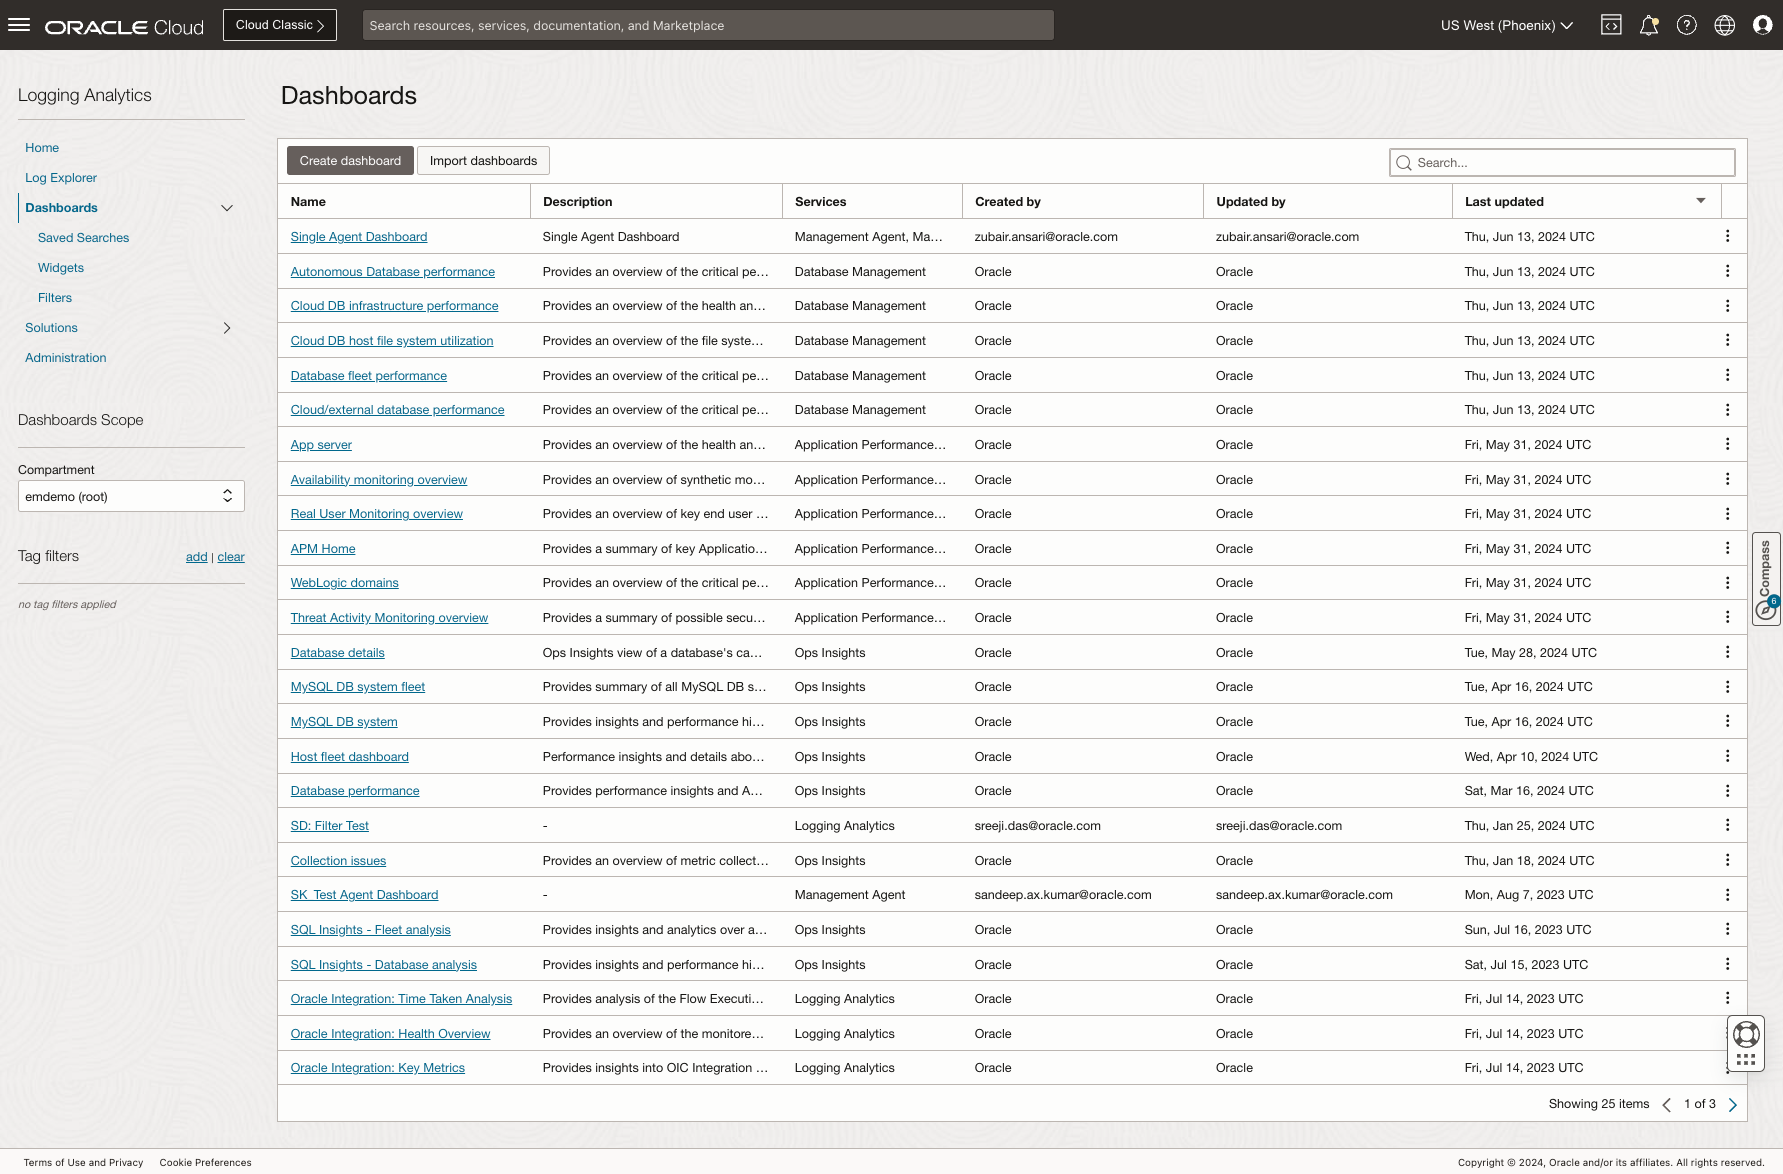
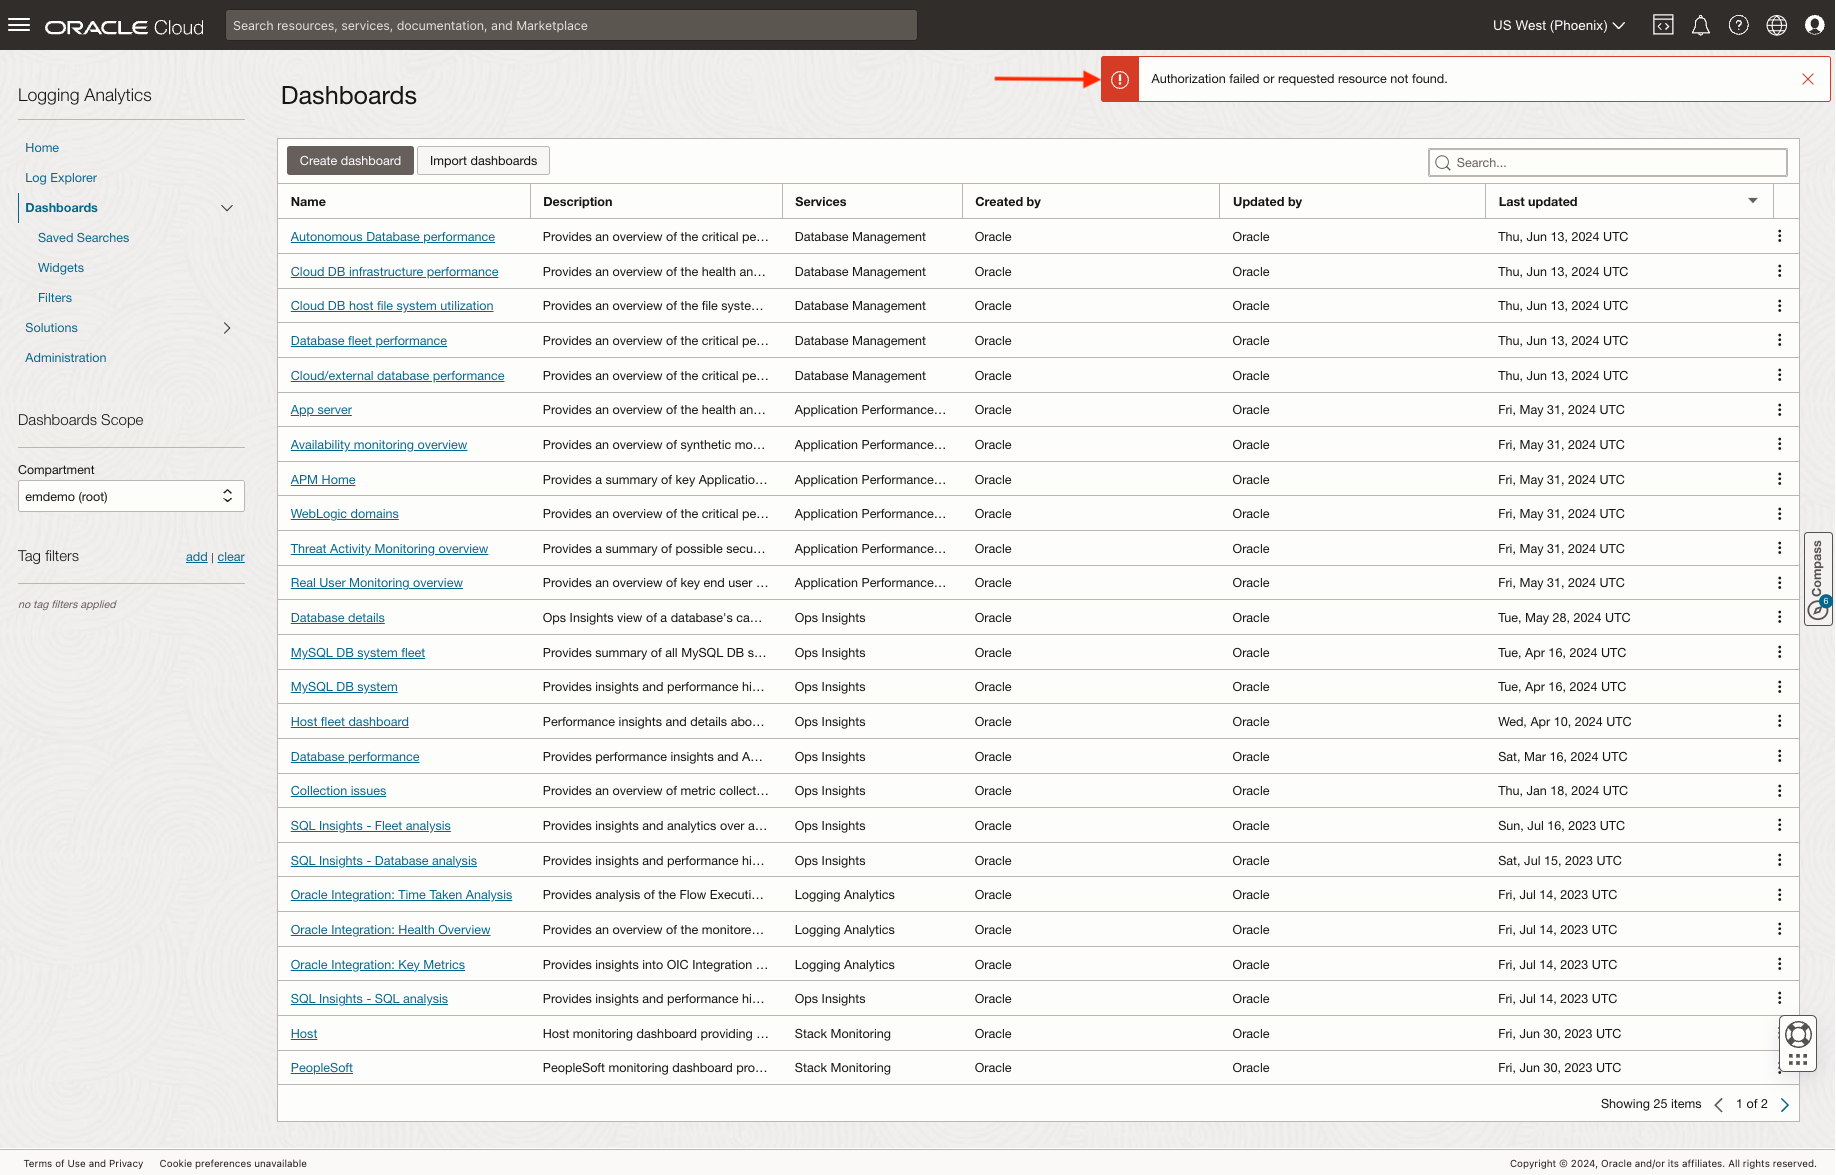
9501 Kubernetes Monitoring and Troubleshooting (#308)
* Dry run feedback addressed

* address lab2 review comments

* feedback from live lab group run

* learn more about log ex link added

* video to be updated- removed

* video viewing statement removed.

* replaced outdated Logex workshop link

diff --git a/logging-analytics/oke-monitoring-la/monitor-kubernetes-cluster/monitor-kubernetes-cluster.md b/logging-analytics/oke-monitoring-la/monitor-kubernetes-cluster/monitor-kubernetes-cluster.md
@@ -1,4 +1,4 @@
-# Monitor the existing Kubernetes Cluster Solution
+# Lab 2 - Monitor the existing Kubernetes Cluster solution
 
 ## Introduction
 
@@ -21,9 +21,9 @@ In this lab, you will see step-by-step instructions to:
 
 1. To navigate to Solutions page, follow one of the below two methods.
 
-    - Open url : https://cloud.oracle.com/loganalytics/solutions?region=us-phoenix-1&tenant=emdemo
+    - **Method 1** - Direct url : https://cloud.oracle.com/loganalytics/solutions?region=us-phoenix-1&tenant=emdemo
 
-    - From Navigation Menu > **Observability & Management** > **Logging Analytics** > **Solutions**.
+    - **Method 2** - From Navigation Menu > **Observability & Management** > **Logging Analytics** > **Solutions**.
     ![final-navigation-solution](images/final-navigation-solution.gif)
 
 2. Click on the Kubernetes tile.
@@ -97,7 +97,7 @@ In this lab, you will see step-by-step instructions to:
     ![cpucore-metrics](images/cpucore-metrics.png)
     - There are total 17 metrics widgets available in cluster view. For details of metrics widgets refer [here](https://docs.oracle.com/en-us/iaas/logging-analytics/doc/kubernetes-solution.html).
 
-2.  Use scroll up and down to see different telemetry widgets.
+2.  Scroll Metrics widgets in Telemetry panel using arrow buttons.
 
     - To view all metrics widgets available in cluster, use arrow above first widget to move up and arrow below fourth widget to move down.
     ![metrics-scrolling](images/latest-metrics-scrolling.gif)
@@ -137,9 +137,9 @@ This widget helps you to monitor the trend and distribution of potential issues 
 
 3. Review Issue trend and potential issues charts.
 
-    - Observe All Issues section showing Issue trend chart. This time series chart gives count of Issues detected over given time interval. Hover over data points for details.
+    - Observe *All Issues* chart, this time series chart gives count of Issues detected over given time interval. Hover over data points for details.
     ![kubesys-all-issues](images/kubesys-all-issues.png)
-    - Check Potential Issues chart to view Issues count grouped by kubernetes components & error. Hover over different colored data points to view details of components with corresponding error.
+    - Check *Potential Issues* chart to view Issues count grouped by kubernetes components & error. Hover over different colored data points to view details of components with corresponding error.
     ![kubesys-potential-issues](images/kubesys-potential-issues.png)
 
 4. Review issues table to see kubernetes component logs. 
@@ -160,9 +160,9 @@ This widget helps you to monitor the trend and distribution of potential issues 
 
 2. Review trend of issues and specific issues.
 
-    - Observe All Issues section showing Issue trend chart. This time series chart gives count of Issues detected over given time interval. Hover over data points for details.
+    - Observe *All Issues* chart, this time series chart gives count of Issues detected over given time interval. Hover over data points for details.
     ![oshealth-all-issues](images/oshealth-all-issues.png)
-    - Check Issues chart to view Issues count grouped by kubernetes component, Node, Issues count, Label & Error. Hover over the data points to get potential issue details.
+    - Check *Issues Trend* chart to view Issues count grouped by kubernetes component, Node, Issues count, Label & Error. Hover over the data points to get potential issue details.
     ![oshealth-potential-issues](images/oshealth-potential-issues.png)
     - Move down to view logs table. Check the Cluster sample column records for list of issues and see related details about node, count etc in different columns.
     ![oshealth-issues-logs](images/oshealth-issues-logs.gif)
@@ -199,7 +199,7 @@ Events section displays the State changes occurring in Kubernetes Cluster in the
 
 1. Filter ***wpexapp*** namespace from topology to see workloads, nodes and pods for this namespace.
 
-    - In Topology diagram, in Namespace tier search for node with name - *wpexapp* and right click on it.
+    - In Topology diagram, in Namespace tier search for node with name - *wpexapp* and **right click** on it.
     ![add-ns-filter](images/add-ns-filter.png)
     - Hit Add to filters option, *wpexapp* will be added to Namespace filter in top right corner. Observe the topology view reflecting changes in objects in the namespace which includes workloads and nodes.
     ![ns-filtered-topology](images/ns-filtered-topology.png)
@@ -219,7 +219,7 @@ Events section displays the State changes occurring in Kubernetes Cluster in the
 
     - View logs for cluster node in topology.
         
-        - In topology right click on main cluster node and hit View logs on context menu.
+        - In topology **right click** on main cluster node and hit **View logs** on context menu.
         ![cluster-viewlogs](images/cluster-viewlogs.png)
         - A Visualization pops up which helps identifying New issues in logs in the selected time range, at cluster level.
         - These are the issues found in the selected time range but are not present in the baseline time range specified for the analysis(last 12 hours). Hover info icon for more details.
@@ -234,7 +234,7 @@ Events section displays the State changes occurring in Kubernetes Cluster in the
 
     - View logs for ***wpexapp*** namespace node in topology.
 
-        - In topology view Namespace tier right click on *wpexapp* and hit View logs on context menu.
+        - In topology view Namespace tier **right click** on *wpexapp* and hit **View logs** on context menu.
         ![ns-viewlogs](images/ns-viewlogs.png)
         - A panel pops up which helps identifying new issues under *wpexapp* namespace in the selected time range. Review errors in records and corresponding details of log sources, issue counts and others in different columns.
         ![ns-viewlogs-panel](images/ns-viewlogs-panel.png)
@@ -243,7 +243,7 @@ Events section displays the State changes occurring in Kubernetes Cluster in the
 
     - View logs for a workload in ***wpexapp*** namespace.
 
-        -  In topology in Workload tier right click on any workload and hit View logs on context menu.
+        -  In topology in Workload tier **right click** on any workload and hit **View logs** on context menu.
         ![workload-viewlogs](images/workload-viewlogs.png)
         - A panel pops up which helps identifying new issues for this workload under *wpexapp* namespace in the selected time range. Review issues in Cluster Sample column and other columns to view details of error log sources, issue counts, etc.
         ![workload-viewlogs-panel](images/workload-viewlogs-panel.png)
@@ -252,7 +252,7 @@ Events section displays the State changes occurring in Kubernetes Cluster in the
 
     - View logs for a Node in ***wpexapp*** namespace.
 
-        - In topology in Node tier right click on any Node and hit View logs on context menu.
+        - In topology in Node tier **right click** on any Node and hit **View logs** on context menu.
         ![node-viewlogs](images/node-viewlogs.png)
         - A panel pops up which helps identifying new issues for this Node under *wpexapp* namespace in the selected time range. Review table records for issue details.
         ![node-viewlogs-panel](images/node-viewlogs-panel.png)
@@ -261,7 +261,7 @@ Events section displays the State changes occurring in Kubernetes Cluster in the
 
     - View logs for pods from Pods by workload section.
 
-        - In Pods by workload section right click on any pod polygon and hit View logs on context menu.
+        - In Pods by workload section **right click** on any pod polygon and hit **View logs** on context menu.
         ![pods-viewlogs](images/pods-viewlogs.png)
         - A panel pops up which helps identifying new issues for this pod in *wpexapp* namespace in the selected time range. Review table records for issue details.
         ![pods-viewlogs-panel](images/pods-viewlogs-panel.png)

diff --git a/logging-analytics/oke-monitoring-la/next-steps-for-more-details/next-steps-for-more-details.md b/logging-analytics/oke-monitoring-la/next-steps-for-more-details/next-steps-for-more-details.md
@@ -1,4 +1,4 @@
-# Next Steps for more Insights
+# Lab 4 - Next Steps for more Insights
 
 ## Introduction
 
@@ -38,6 +38,8 @@ In this lab, you will see step-by-step instructions to:
     ```
   2. Dashboards page will be displayed.
    ![dashboards-home](images/dashboards-home.png) 
+
+    > **Note** : You will see an authorization error. It is expected as current user doesn't have permission to the root compartment.
 
   3. Switch to the compartment **CW24\_Logging\_Analytics**.
     - From the **Compartment** dropdown select the compartment **CW24\_Logging\_Analytics**.
@@ -88,21 +90,22 @@ In this lab, you will see step-by-step instructions to:
 
   2. This will take you to the **Pie Chart view** of Log Explorer in context of Kubernetes Cluster Name.
     ![kubernetes-events-logs-pie-chart-view](images/kubernetes-events-logs-pie-chart-view.png)
-
-  3. **Exercise** Explore the different visualizations on Log Explorer page. Read more about [how to use Log Explorer for analyzing and visualizing logs in Logging Analytics.] (https://livelabs.oracle.com/pls/apex/r/dbpm/livelabs/run-workshop?p210_wid=3887)
-
-    ![visualization-drop-down](images/visualization-drop-down.png)
-  
-  4. To navigate back to the Kubernetes Cluster Summary page, click on the **Kubernetes Cluster Summary** as highlighted in the image below.
+ 
+  3. To navigate back to the Kubernetes Cluster Summary page, click on the **Kubernetes Cluster Summary** as highlighted in the image below.
     ![kubernetes-cluster-summary-nav-back](images/kubernetes-cluster-summary-nav-back.png)
 
-  5. Similarly you can explore other widgets in the Kubernetes Cluster Summary and other dashboards. 
+  4. Similarly you can explore other widgets in the Kubernetes Cluster Summary and other dashboards. 
+
 
 **Congratulations!** In this lab, you have successfuly completed the following tasks:
   - Visualized Pre-imported dashboards
   - Visualized data in the Log Explorer
   
-  You may now proceed to the [next lab](#next).
+  This concludes the workshop.
+
+## Learn More
+  * [How to use Log Explorer to analyze and visualize logs](https://livelabs.oracle.com/pls/apex/r/dbpm/livelabs/run-workshop?p210_wid=3887)  
+
 
 ## Acknowledgements
 * **Author** - Vikram Reddy, OCI Logging Analytics

diff --git a/logging-analytics/oke-monitoring-la/connect-cluster-flow/connect-cluster-flow.md b/logging-analytics/oke-monitoring-la/connect-cluster-flow/connect-cluster-flow.md
@@ -1,4 +1,4 @@
-# Connect to the Kubernetes Cluster (Optional Study)
+# Lab 1 - Connect to the Kubernetes Cluster (Optional Study)
 
 ## Introduction
 
@@ -14,9 +14,8 @@ In this lab, you will see step-by-step instructions to:
 
 
 ## (Viewing Excercise Only) Task 1: Connect to the existing Kubernetes Cluster
-  > **Note** : **No action is needed from the user as this is only reading excercise.**
-  
-    <<<VIDEO TO BE UPLOADED>>>
+  > **Note** : **No action is needed from the user as this is only viewing excercise.**
+
 
 
 **Congratulations!** In this lab, you have successfuly completed the following tasks:

diff --git a/logging-analytics/oke-monitoring-la/introduction/introduction.md b/logging-analytics/oke-monitoring-la/introduction/introduction.md
@@ -7,9 +7,6 @@ This live lab will cover setting up end-to-end monitoring for a sample Kubernete
 
 Estimated Workshop Time: 01 hours 30 minutes
 
-Watch the video below for a quick walk-through of the lab.
-[Exploring Oracle Cloud Infrastructure Logging Analytics](videohub:1_dt55vn2d) 
-
 ### Objectives
 
 In this workshop, you will learn how to:

diff --git a/logging-analytics/oke-monitoring-la/interactive-analytics-and-troubleshooting/interactive-analytics-and-troubleshooting.md b/logging-analytics/oke-monitoring-la/interactive-analytics-and-troubleshooting/interactive-analytics-and-troubleshooting.md
@@ -1,4 +1,4 @@
-# Interactive Analytics and Troubleshooting
+# Lab 3 - Interactive Analytics and Troubleshooting
 
 ## Introduction
 
